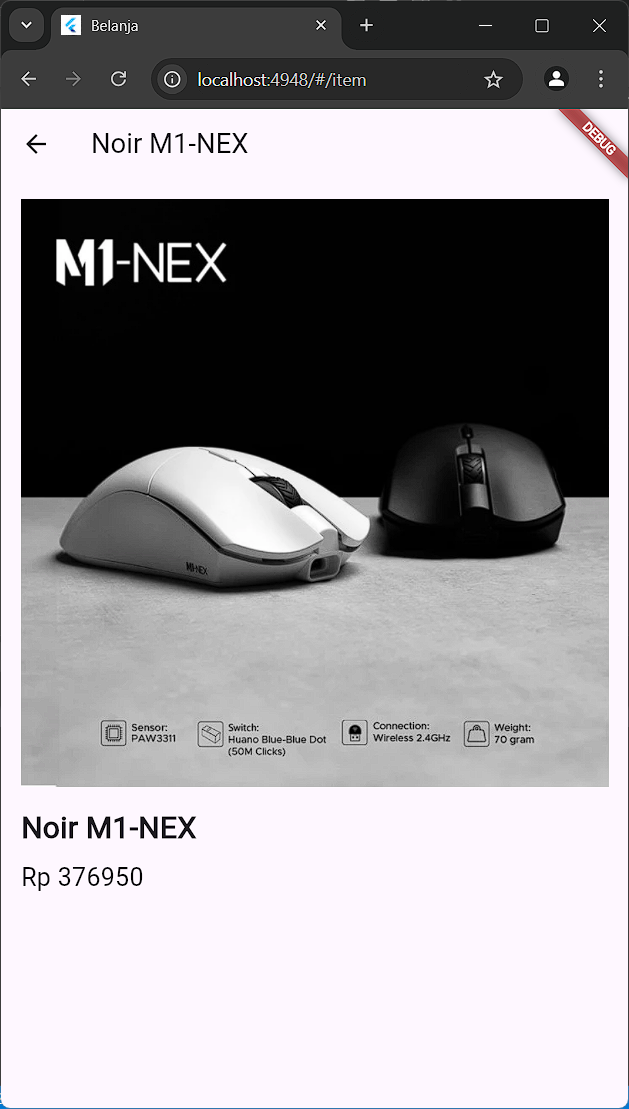
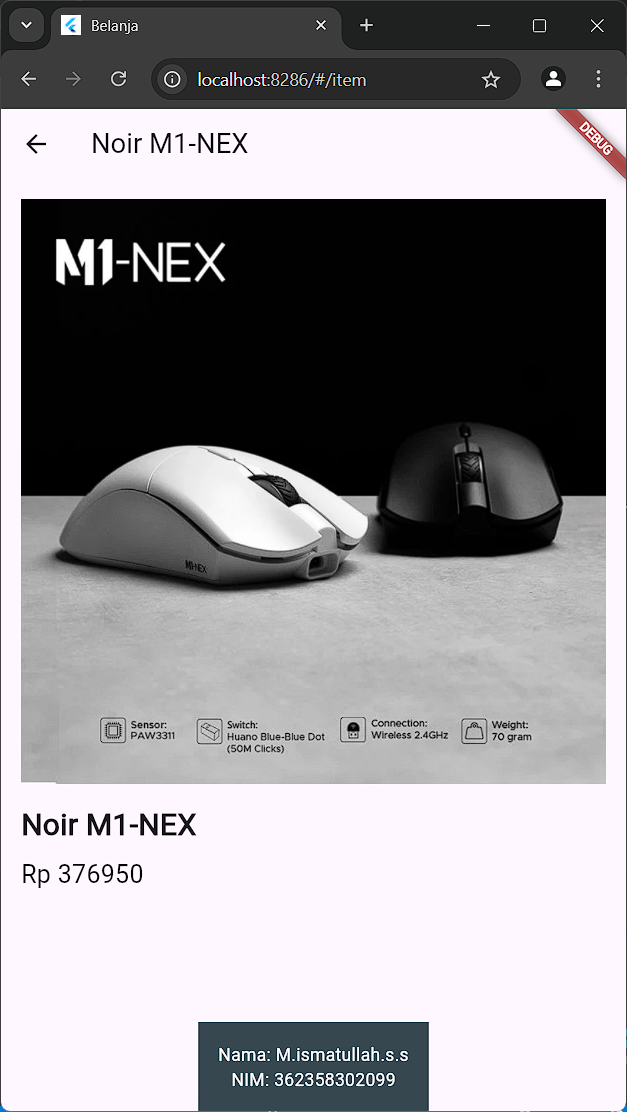
project navigasi

diff --git a/lib/pages/homePage.dart b/lib/pages/homePage.dart
@@ -1,6 +1,5 @@
 import 'package:flutter/material.dart';
 import 'package:navigasi/models/item.dart';
-import 'package:flutter/widgets.dart';
 import 'package:navigasi/widget/footer_widget.dart';
 
 class HomePage extends StatelessWidget {
@@ -42,7 +41,7 @@ class HomePage extends StatelessWidget {
               },
             ),
           ),
-          FooterWidget(
+          const FooterWidget(
             name: 'M.ismatullah.s.s',  // Ganti dengan nama yang diinginkan
             nim: '362358302099',    // Ganti dengan NIM yang diinginkan
           ),

diff --git a/lib/pages/itemPage.dart b/lib/pages/itemPage.dart
@@ -38,7 +38,7 @@ class ItemPage extends StatelessWidget {
               ),
             ),
           ),
-          FooterWidget(
+          const FooterWidget(
            name: 'M.ismatullah.s.s',  
             nim: '362358302099',
           ),
